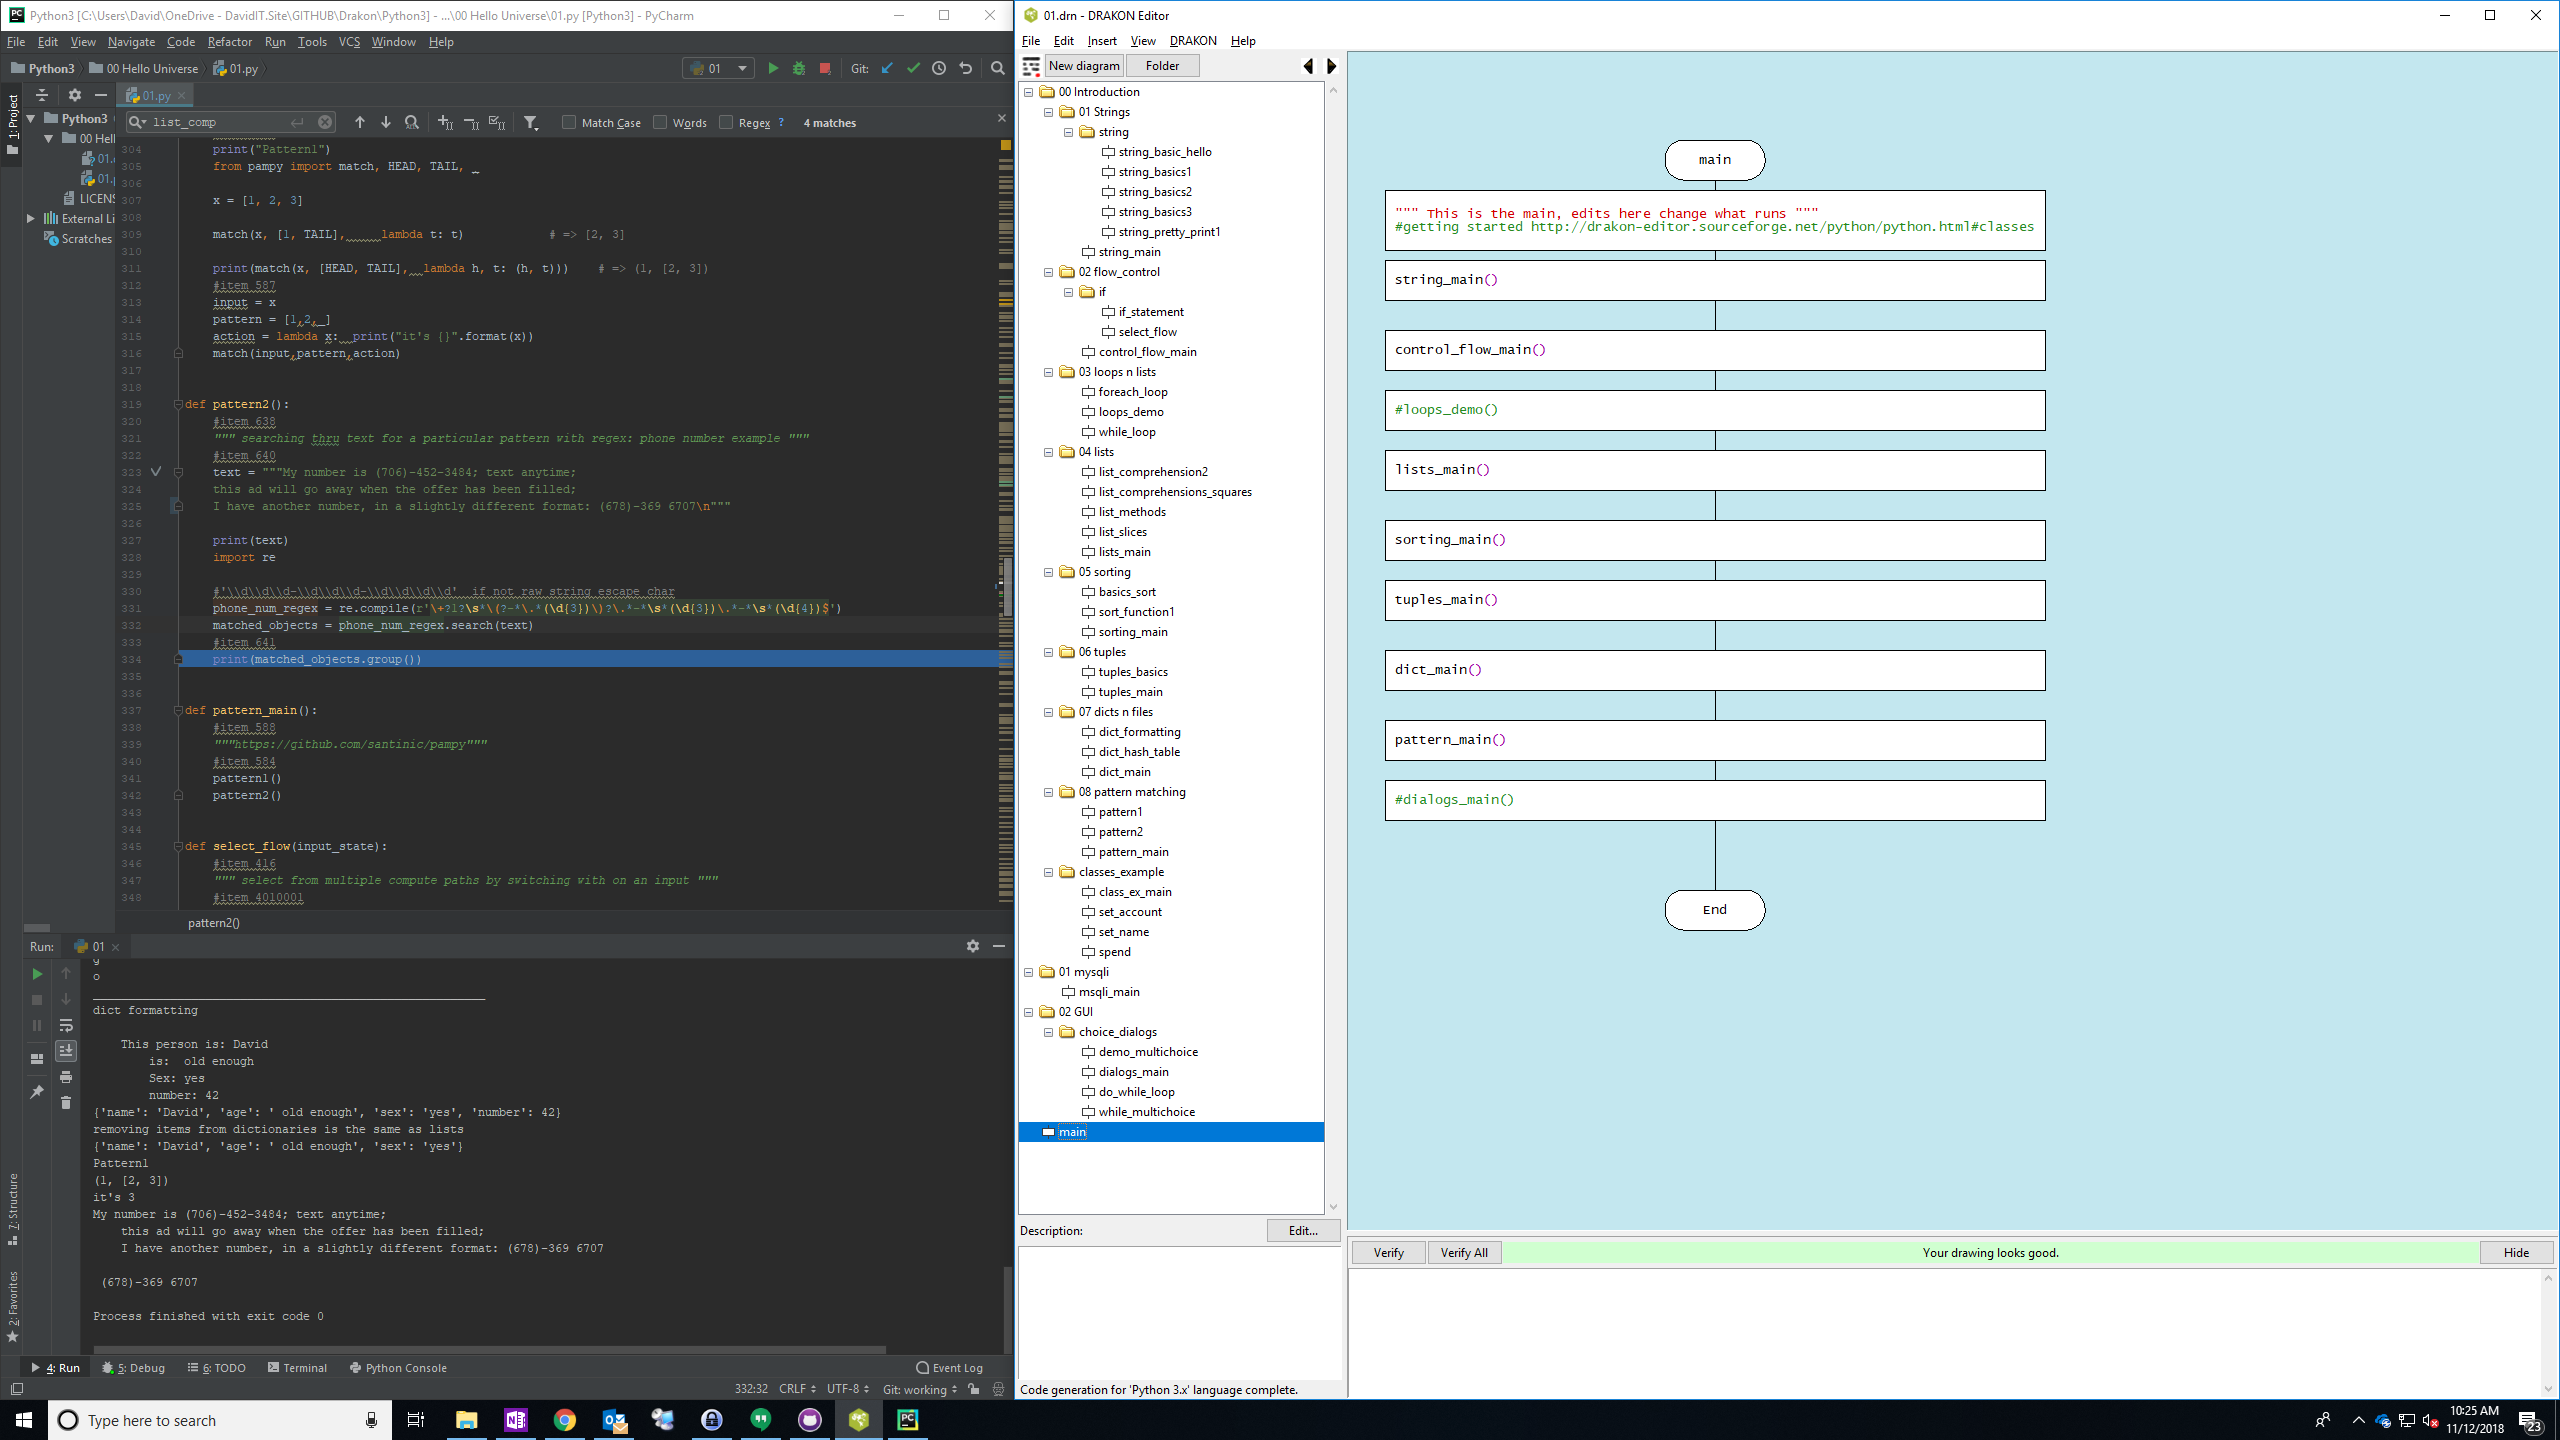
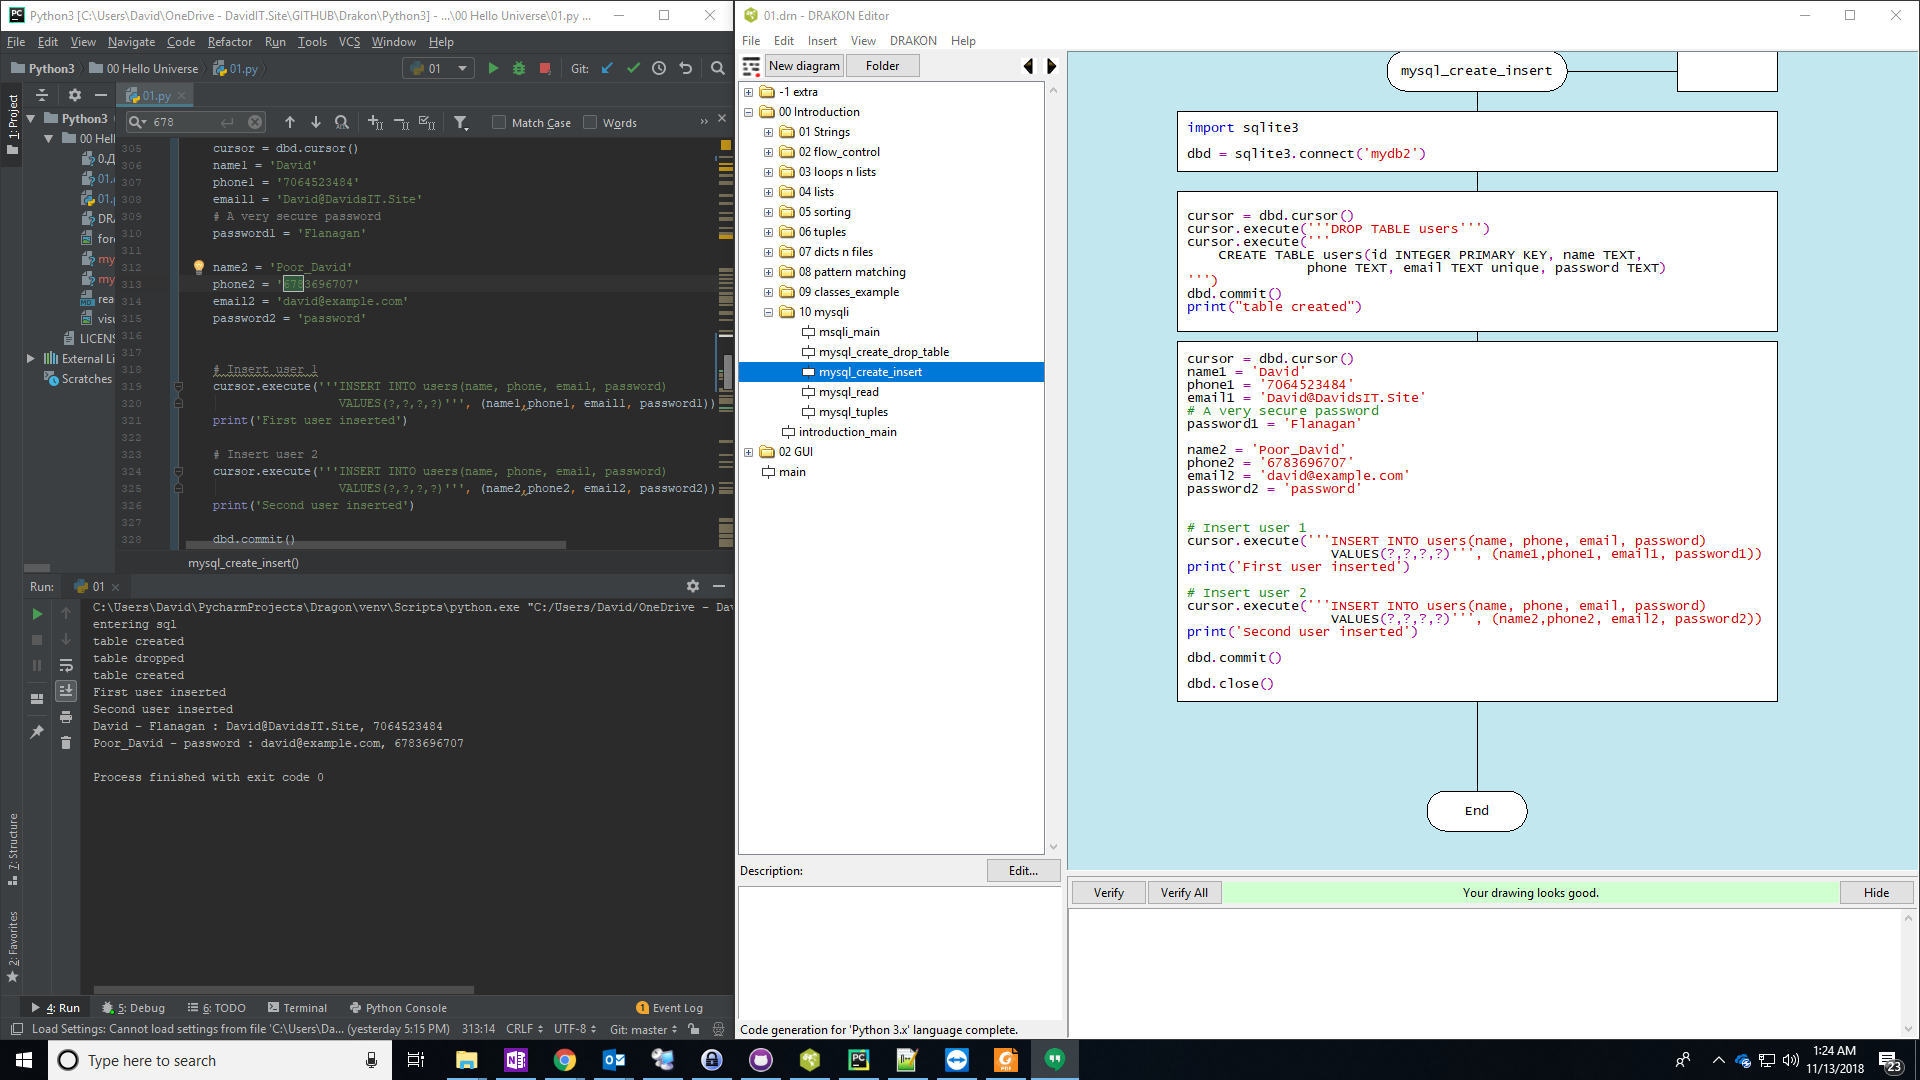
@sql
python is O.o

diff --git a/00 Hello Universe/01.py b/00 Hello Universe/01.py
@@ -3,7 +3,7 @@ import easygui as eg
 # Autogenerated with DRAKON Editor 1.31
 
 def _item_remove():
-    """cleanup from drakon for easy code reading"""
+    """cleanup from drakon for easy code reading!  ignore me!"""
     import os
     
     me = os.getcwd()+r'\01.py'
@@ -258,12 +258,90 @@ def loops_demo():
 
 def main():
     _item_remove()
-    introduction_main()
+    #introduction_main()
+    msqli_main()
 
 
 def msqli_main():
-    print("HALT")
-    #pick up here later
+    print("entering sql")
+    mysql_create_drop_table()
+    mysql_create_insert()
+    mysql_read()
+
+
+def mysql_create_drop_table():
+    import sqlite3
+    # Create a database in RAM
+    dbr = sqlite3.connect(':memory:')
+    # Creates or opens a file called mydb with a SQLite3 DB
+    dbd = sqlite3.connect('mydb')
+    cursor = dbd.cursor()
+    cursor.execute('''
+        CREATE TABLE users(id INTEGER PRIMARY KEY, name TEXT,
+                           phone TEXT, email TEXT unique, password TEXT)
+    ''')
+    dbd.commit()
+    print("table created")
+    cursor = dbd.cursor()
+    cursor.execute('''DROP TABLE users''')
+    dbd.commit()
+    print("table dropped")
+    dbr.close()
+    dbd.close()
+
+
+def mysql_create_insert():
+    import sqlite3
+    
+    dbd = sqlite3.connect('mydb2')
+    cursor = dbd.cursor()
+    cursor.execute('''DROP TABLE users''')
+    cursor.execute('''
+        CREATE TABLE users(id INTEGER PRIMARY KEY, name TEXT,
+                   phone TEXT, email TEXT unique, password TEXT)
+    ''')
+    dbd.commit()
+    print("table created")
+    cursor = dbd.cursor()
+    name1 = 'David'
+    phone1 = '7064523484'
+    email1 = 'David@DavidsIT.Site'
+    # A very secure password
+    password1 = 'Flanagan'
+     
+    name2 = 'Poor_David'
+    phone2 = '6783696707'
+    email2 = 'david@example.com'
+    password2 = 'password'
+    
+    
+    # Insert user 1
+    cursor.execute('''INSERT INTO users(name, phone, email, password)
+                      VALUES(?,?,?,?)''', (name1,phone1, email1, password1))
+    print('First user inserted')
+     
+    # Insert user 2
+    cursor.execute('''INSERT INTO users(name, phone, email, password)
+                      VALUES(?,?,?,?)''', (name2,phone2, email2, password2))
+    print('Second user inserted')
+     
+    dbd.commit()
+    
+    dbd.close()
+
+
+def mysql_read():
+    import sqlite3
+    dbd = sqlite3.connect('mydb2')
+    cursor = dbd.cursor()
+    
+    
+    cursor.execute('''SELECT name, email, phone, password FROM users''')
+    for row in cursor:
+        # row[0] returns the first column in the query (name), row[1] returns email column.
+        print('{0} - {3} : {1}, {2}'.format(row[0], row[1], row[2],row[3]))
+    
+    dbd.close()
 
 
 def pattern1():
